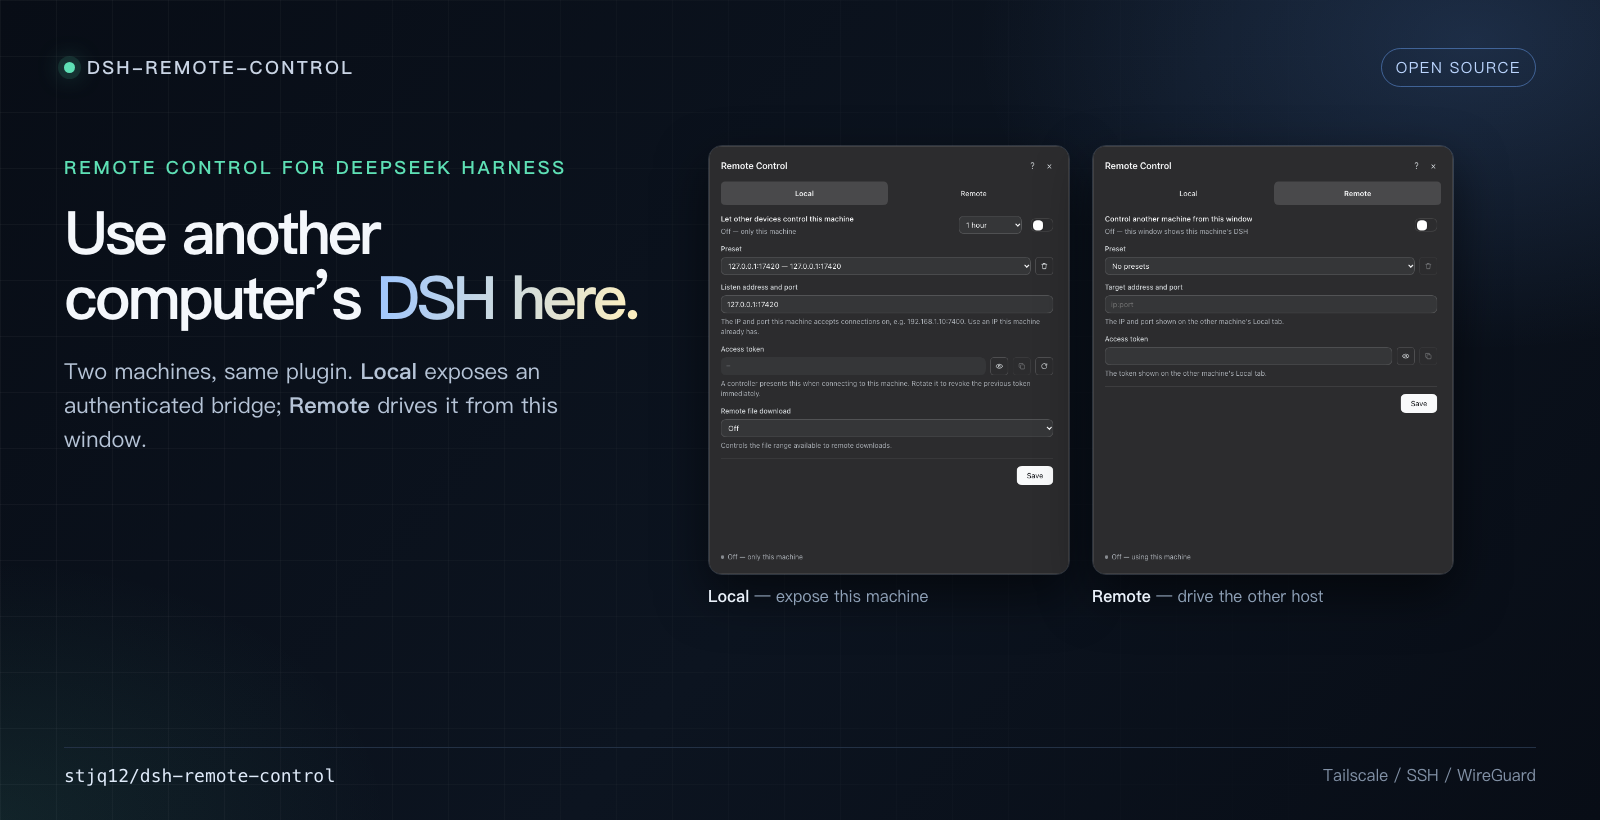
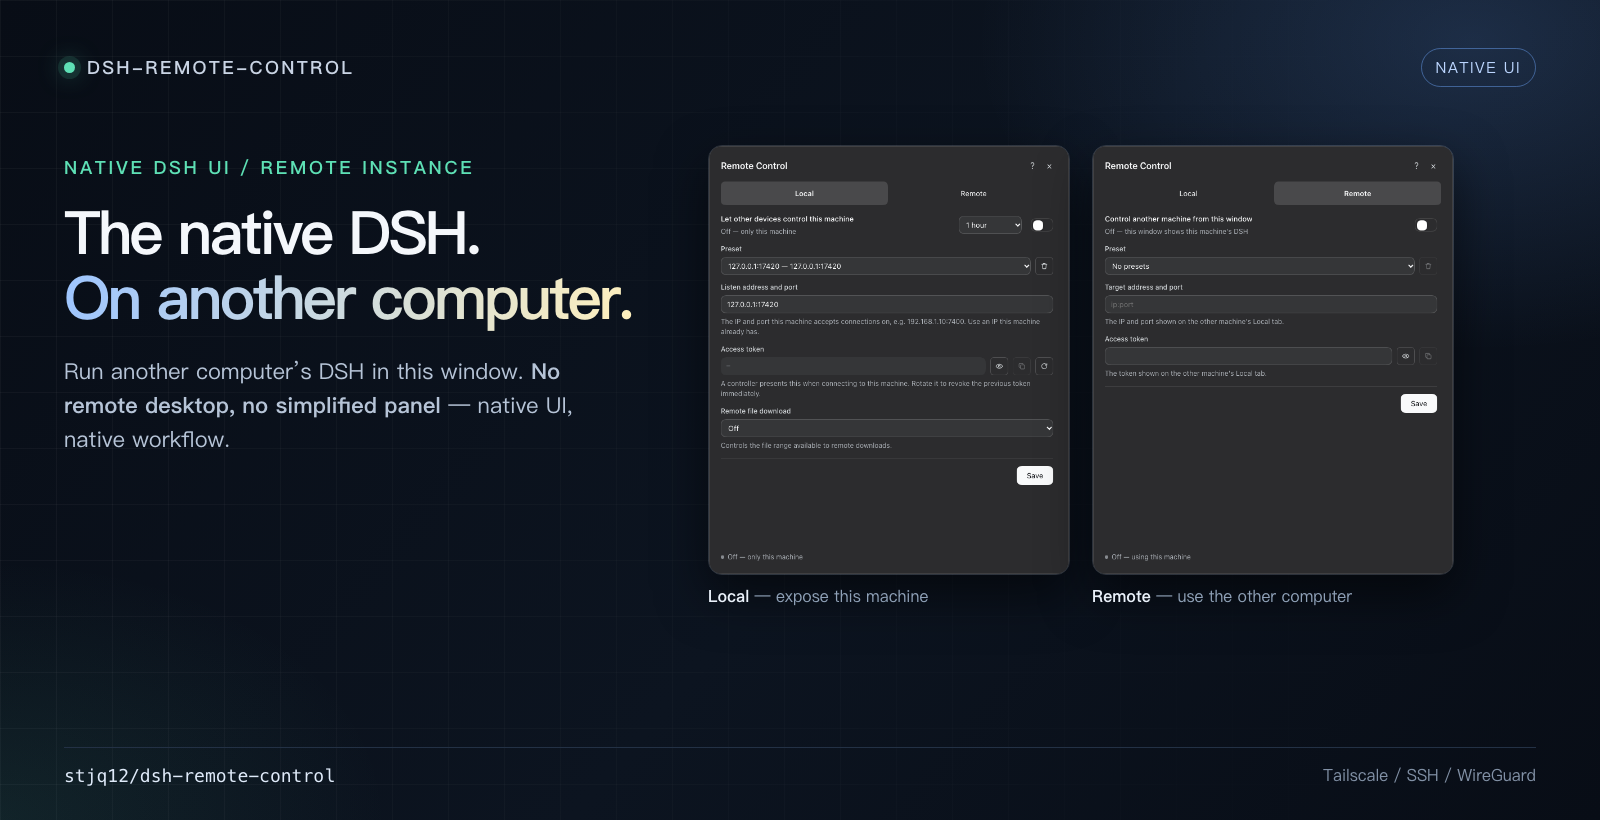
Emphasize native DSH UI in README

diff --git a/README.en.md b/README.en.md
@@ -2,13 +2,13 @@
 
 [简体中文](README.md) · [Install](INSTALL.md) · [Technical](TECHNICAL.md)
 
-![Local and Remote tabs](assets/readme/hero.en.png)
+![Native DSH interface controlling another computer](assets/readme/hero.en.png)
 
-A DeepSeek Harness plugin that establishes remote control between two computers, letting one computer operate a DeepSeek Harness instance running on another computer.
+A DeepSeek Harness plugin that opens another computer's DSH in this window through the native DSH interface — no remote desktop, no simplified replacement panel. The native controls and workflow stay intact.
 
 ## What it does
 
-- **One window, two hosts.** Keep DSH on a desktop or server and use it from another computer.
+- **Native DSH, not a remote desktop.** Keep the same interface, controls and workflow on the other Host.
 - **Local / Remote.** Local exposes an authenticated `/bridge`; Remote routes this window's traffic to it.
 - **Approvals and downloads.** While a controller is attached, approvals and AI questions are answered remotely. Downloads can be limited to a chosen directory.
 

diff --git a/README.md b/README.md
@@ -2,13 +2,13 @@
 
 [English](README.en.md) · [安装](INSTALL.md) · [技术说明](TECHNICAL.md)
 
-![本机页和远程页截图](assets/readme/hero.zh-CN.png)
+![原生 DSH 界面操作另一台电脑](assets/readme/hero.zh-CN.png)
 
-一个 DeepSeek Harness 插件，用于在两台电脑之间建立远程控制，让一台电脑操作另一台电脑上运行的 DeepSeek Harness 实例。
+一个 DeepSeek Harness 插件：在当前窗口中通过原生 DSH 界面操作另一台电脑上的 DSH，不套远程桌面，也不做简化面板。原生控件和操作方式保持完整。
 
 ## 功能
 
-- **两台电脑，一个窗口。** DSH 放在台式机或服务器，人在另一台电脑上继续使用。
+- **原生 DSH，不是远程桌面。** 对端还是同一套界面、控件和操作方式。
 - **本机页 / 远程页。** 本机页开放带凭据的 `/bridge`，远程页把当前窗口的流量接到对端。
 - **审批与下载。** 有远程控制端时，审批和 AI 提问由远程端回答；下载可以限定到指定目录。
 
